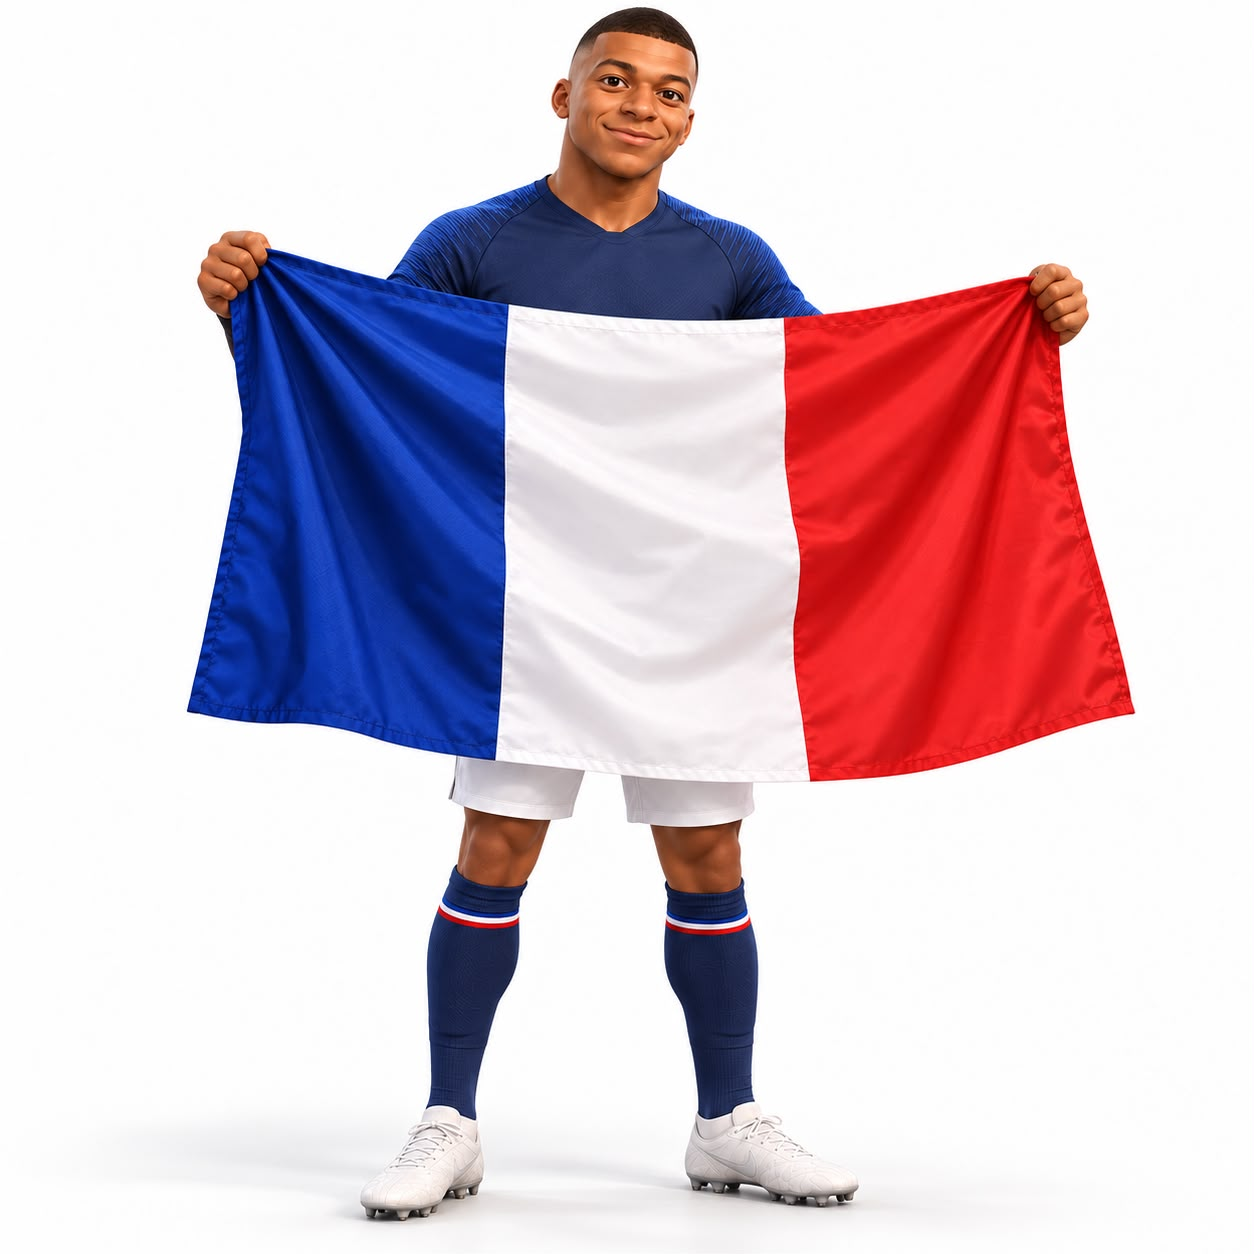
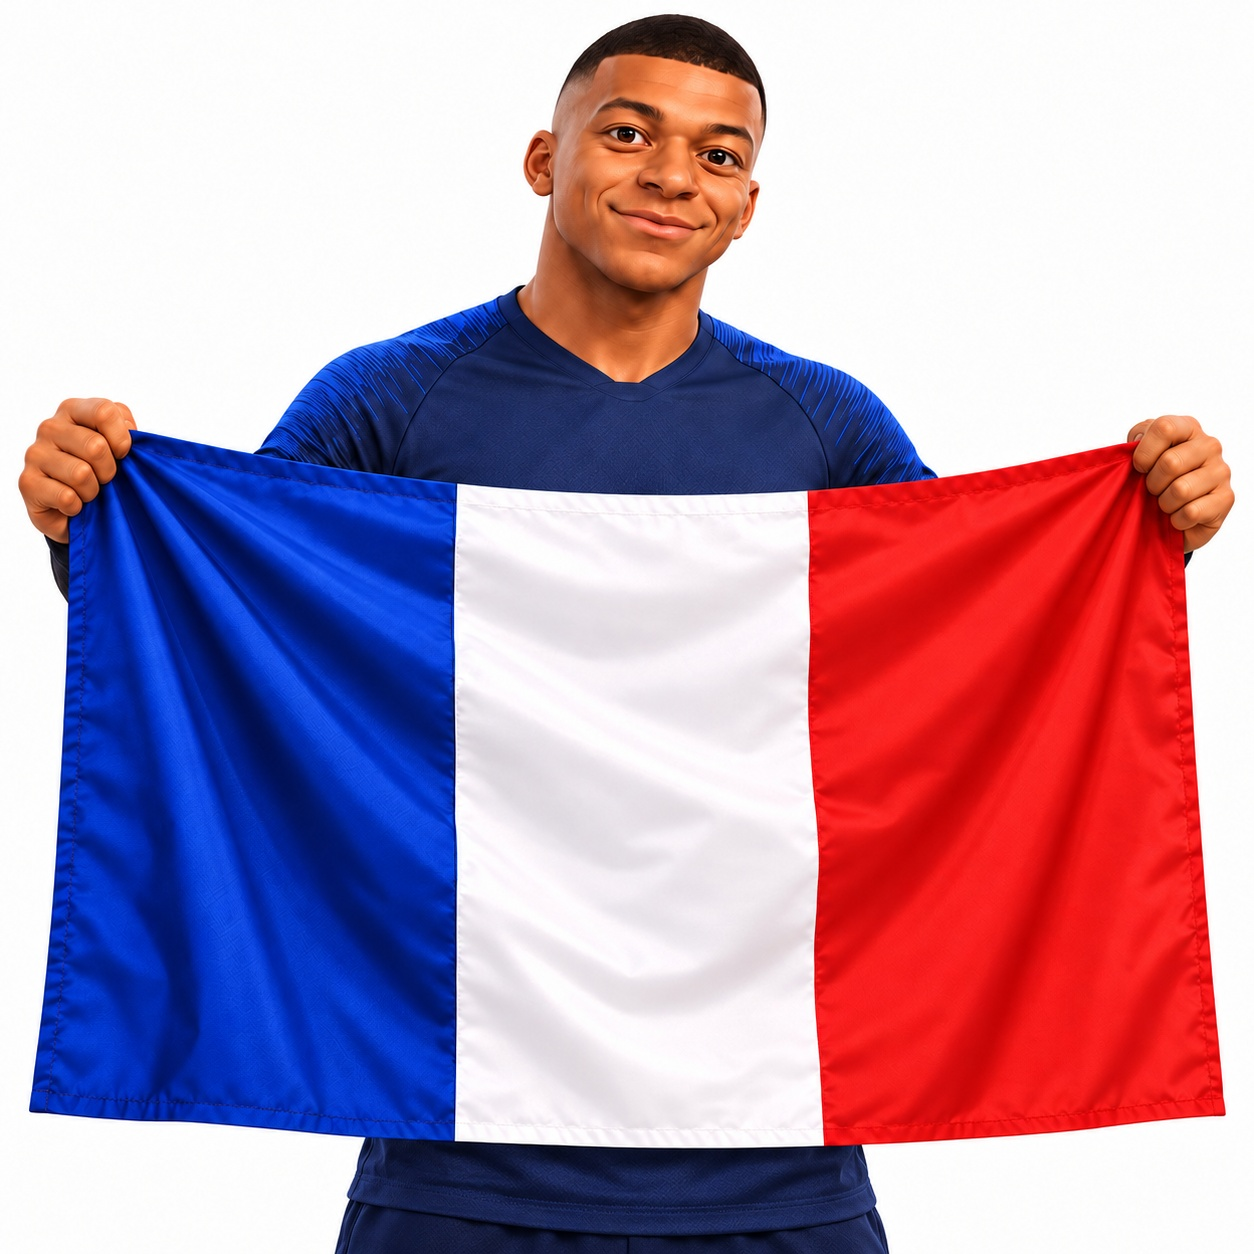
Match country card portrait framing and preserve complete flags
- Replace full-body Mbappe and Socrates illustrations with upper-body portraits showing both hands and complete flag edges.
- Keep visible clothing and torso below the flag to match the other cards.
- Verify all 14 country images and questions at desktop and phone sizes and inspect the updated portraits visually.

-----------

Ülke kartlarının portre kadrajları ve bayrak bütünlüğü düzenlendi

- Tam boy Mbappe ve Sokrates çizimleri, iki elin ve bayrak kenarlarının tamamının göründüğü üst gövde portreleriyle değiştirildi.
- Diğer kartlara uyum için bayrağın altında gövde ve kıyafetin devamı görünür bırakıldı.
- 14 ülke görseli ve sorusu masaüstü ve telefon boyutlarında doğrulandı; güncellenen portreler görsel olarak incelendi.

diff --git a/docs/TEST_RAPORU.md b/docs/TEST_RAPORU.md
@@ -65,3 +65,10 @@ Chrome üzerinde gerçek `file://` sayfası ve ayrı, geçici tarayıcı profili
 - 1366×768, 820×650, 390×844 ve 850×420 boyutlarında her iki kategoride görsel ve kontrollerin ekrana sığması geçti. Ülkeler kategorisinin masaüstü ve telefon ekran görüntüleri görsel olarak incelendi.
 
 Zaman alan geçişler testte tarayıcının sanal saatiyle ilerletildi. Ses dosyaları ve ses kontrol kodu korunmuştur; bu turda sesin işitsel değerlendirmesi ve önceki sürümün tüm ses/tam ekran hata senaryoları tekrarlanmadı. Build veya lint çalıştırılmadı; statik HTML uygulamasının derleme adımı yoktur.
+
+
+## Yakın kadraj ve bayrak bütünlüğü — 24 Ekim 2026
+
+Mbappé ve Sokrates kartları, diğer kartlar gibi üst gövde kadrajına güncellendi. Baş, iki el ve bayrağın dört kenarı resim içinde bırakıldı; bayrağın altından bel hizasında gövde ve kıyafetin devamı görünür bırakıldı. İlk kesik bayraklı çıktılar kullanılmadı. Yerleşik Imagegen aracıyla, özgün kişi ve bayrak korunarak, Jackie Chan kartının kadrajı referans alındı. İstek özeti: “Square upper-body portrait; preserve identity; both hands and all four flag edges fully inside canvas; visible clothing-covered torso below the full bottom hem, continuing through the bottom edge like the reference; no legs or feet.”
+
+Güncellenen iki görsel ve 14 ülke kartının tamamı 1366×768 ve 390×844 ekranlarda `object-fit: contain` ile resmin tamamı ve eşleşen soru görünür olacak şekilde odaklı testten geçirildi. İki yeni kartın kaynak görselleri ve uygulamadaki masaüstü/telefon görüntüleri ayrıca görsel olarak incelendi.
